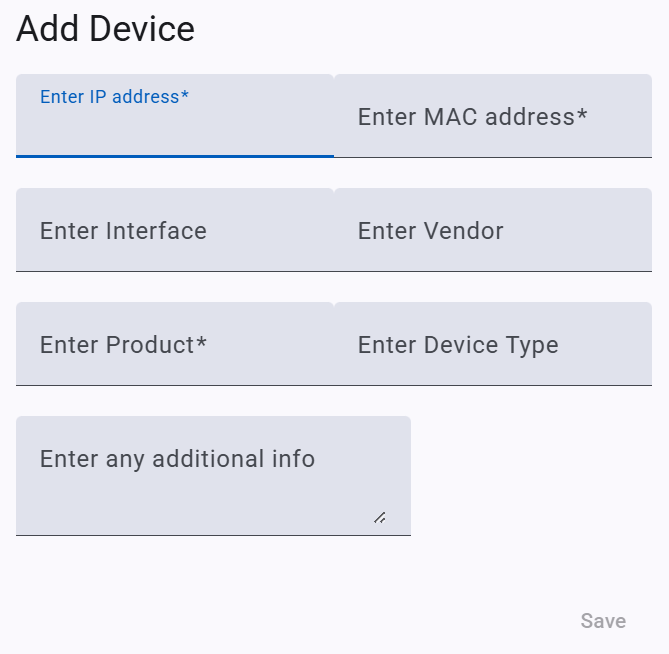
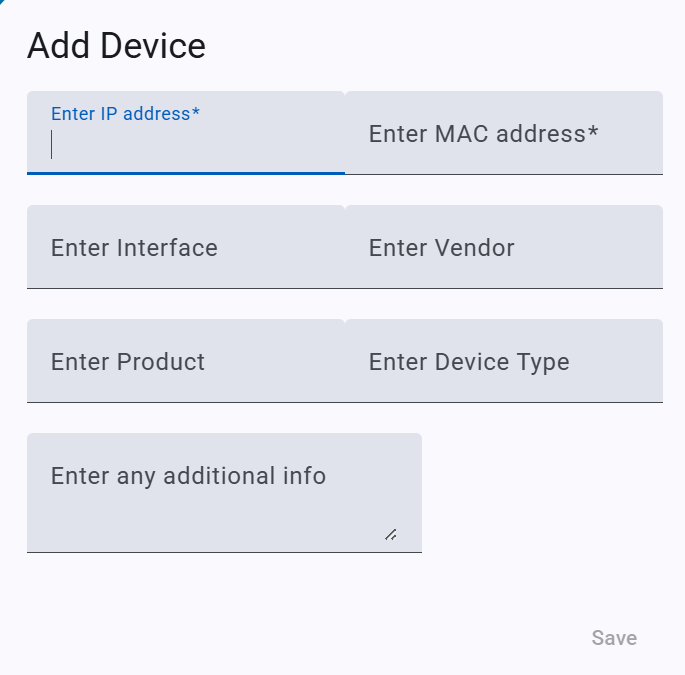
tutorial edits

diff --git a/src/app/tutorial/tutorial.component.html b/src/app/tutorial/tutorial.component.html
@@ -46,10 +46,11 @@
           The <strong>Scan Button</strong> allows devices to automatically be added to the table by adding devices from a networking device's <strong>ARP table</strong>.
         </figcaption>
         <br>
-        <img src="assets/scandialog.png" height="300px" alt="Scan Button Dialog Box">
+        <img src="assets/scandialog.png" height="200px" alt="Scan Button Dialog Box">
         <figcaption>
           When the scan button is clicked, a dialog box will appear to insert information for the scan.<br>
-          The networking device's IP address, SNMP version, and community string are all required to conduct a scan.
+          First, insert the networking device's <strong>IP address</strong> and choose which <strong>SNMP version</strong> to use. <br>
+          After choosing the SNMP version, more information will be required based on the SNMP version selected.
         </figcaption>
       </figure>
       <br>
@@ -70,7 +71,7 @@
         <img src="assets/adddialog.png" height="300px" alt="Add Button Dialog Box">
         <figcaption>
           When the add button is clicked, a dialog box will appear to insert a device's information.<br>
-          The IP address, MAC address, and product name are all required to add a device.
+          The IP address and MAC address are both required to add a device.
         </figcaption>
       </figure>
       <br>
